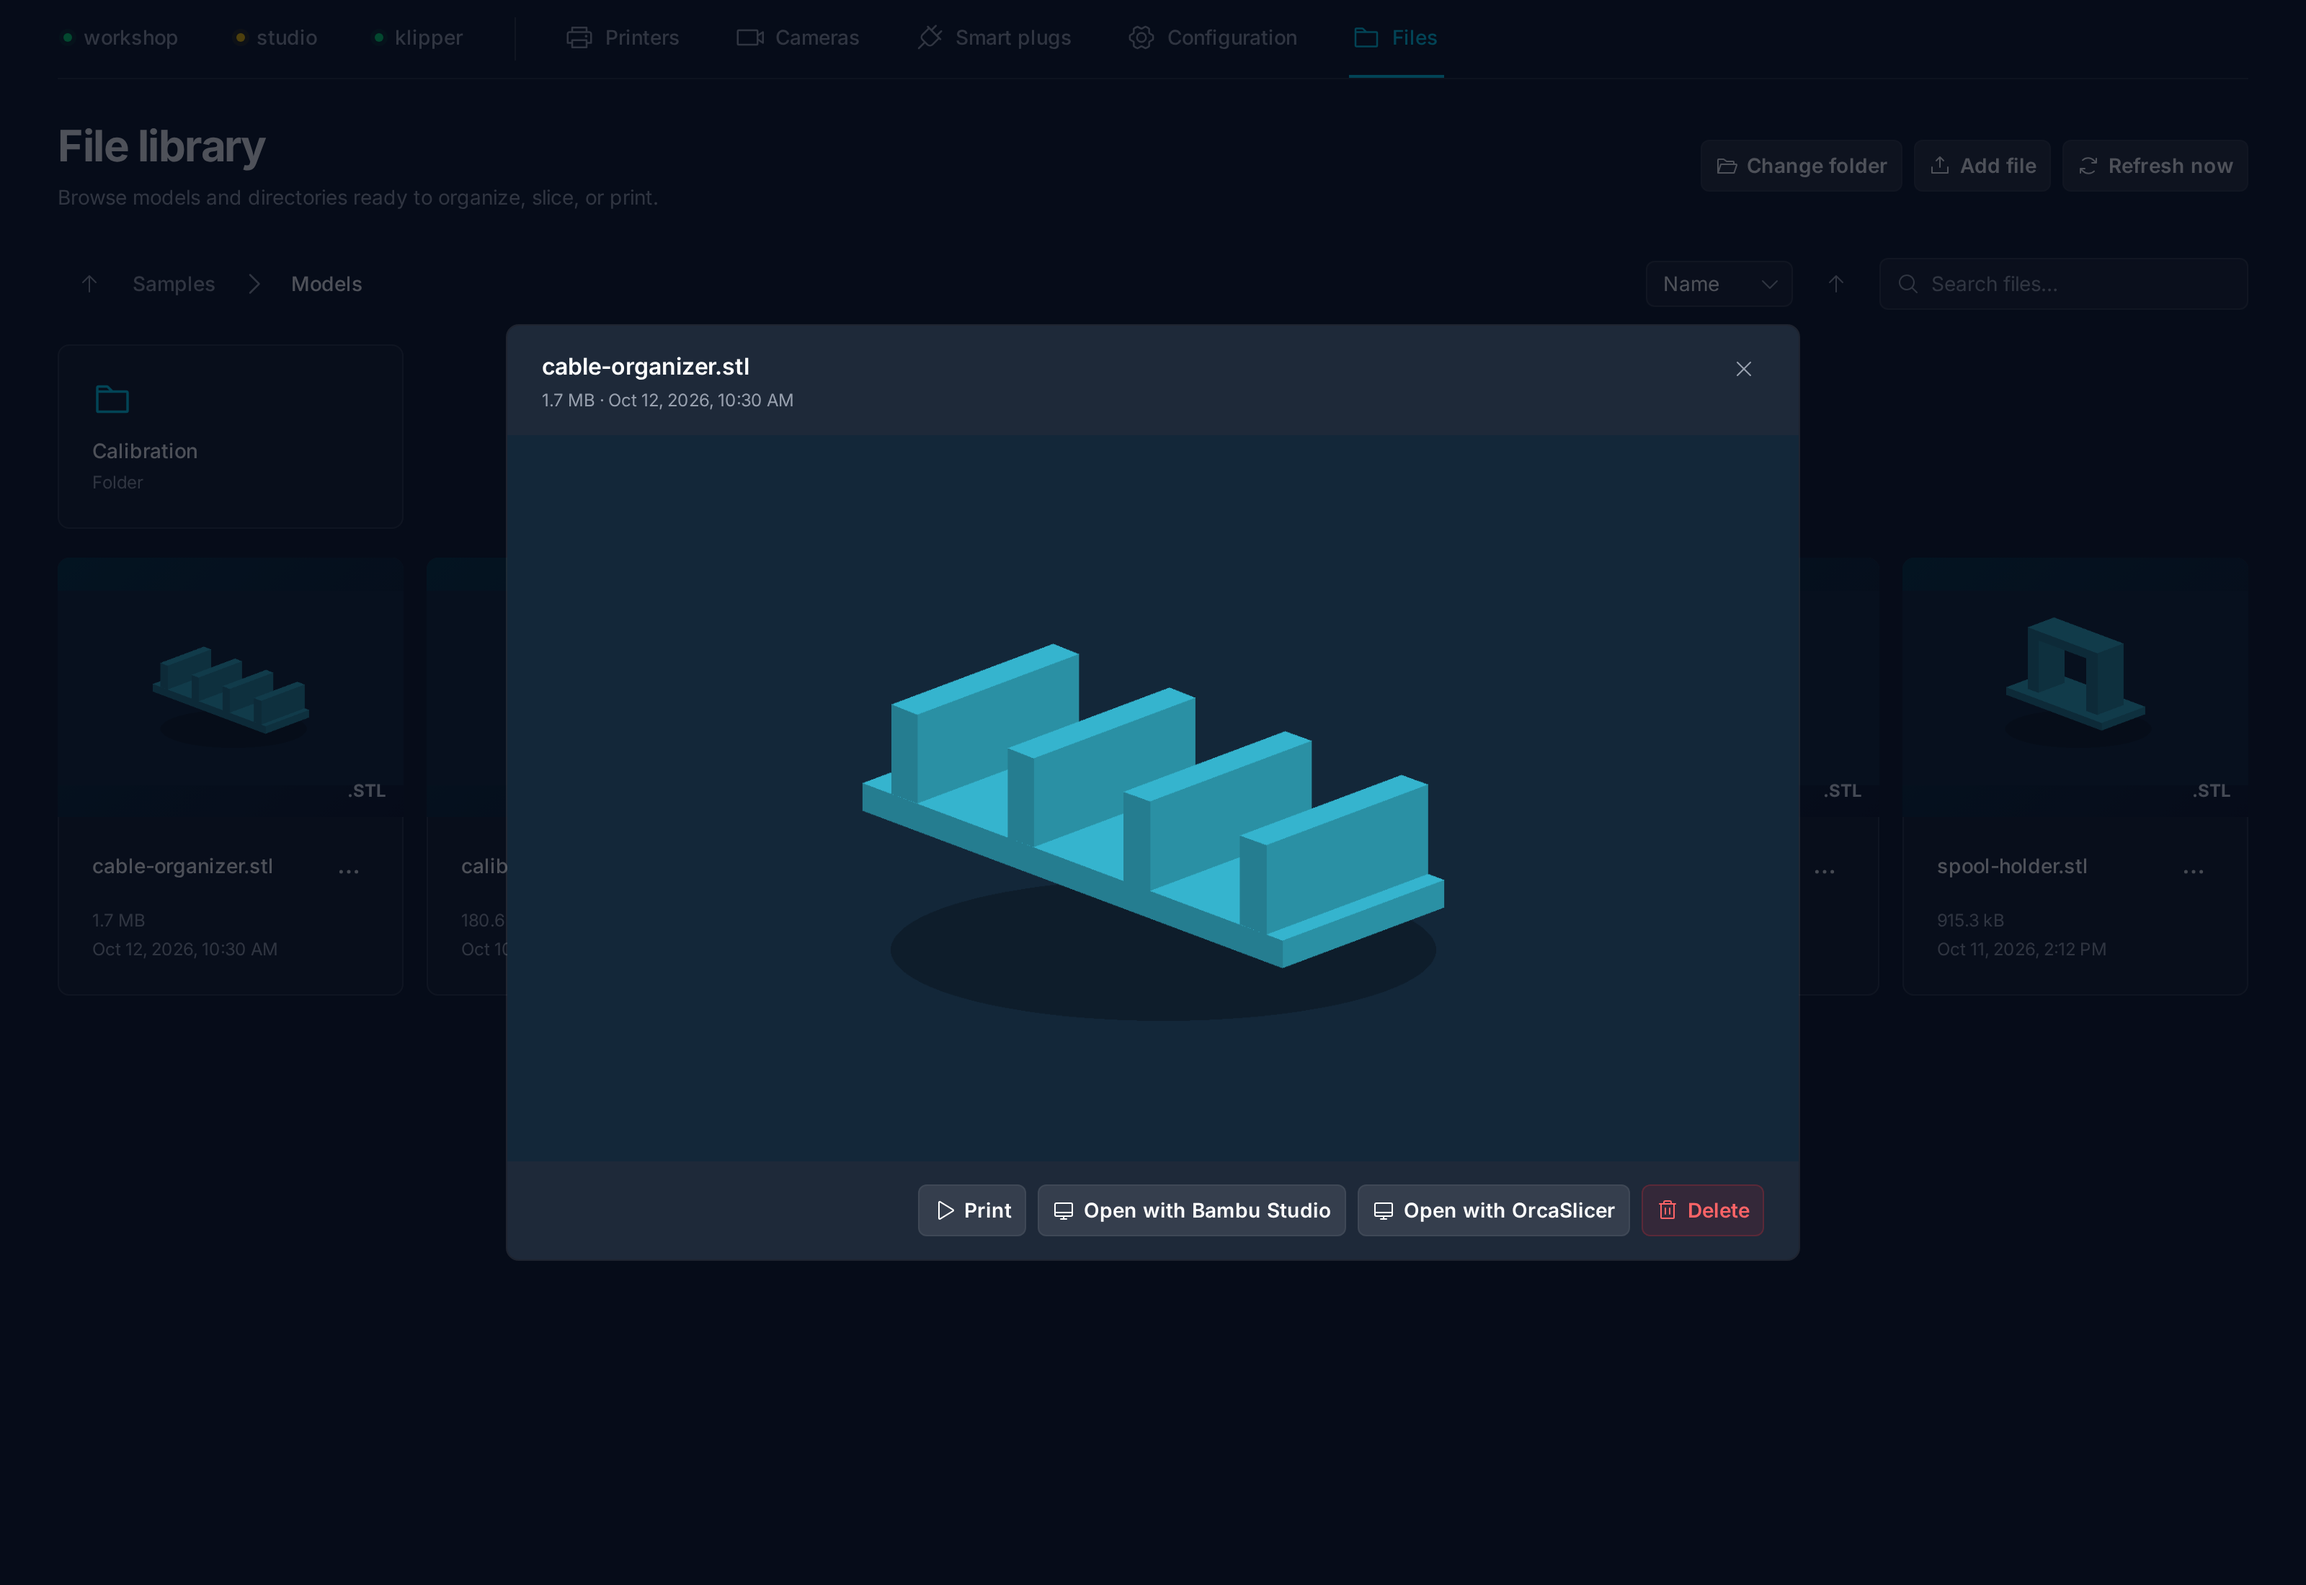
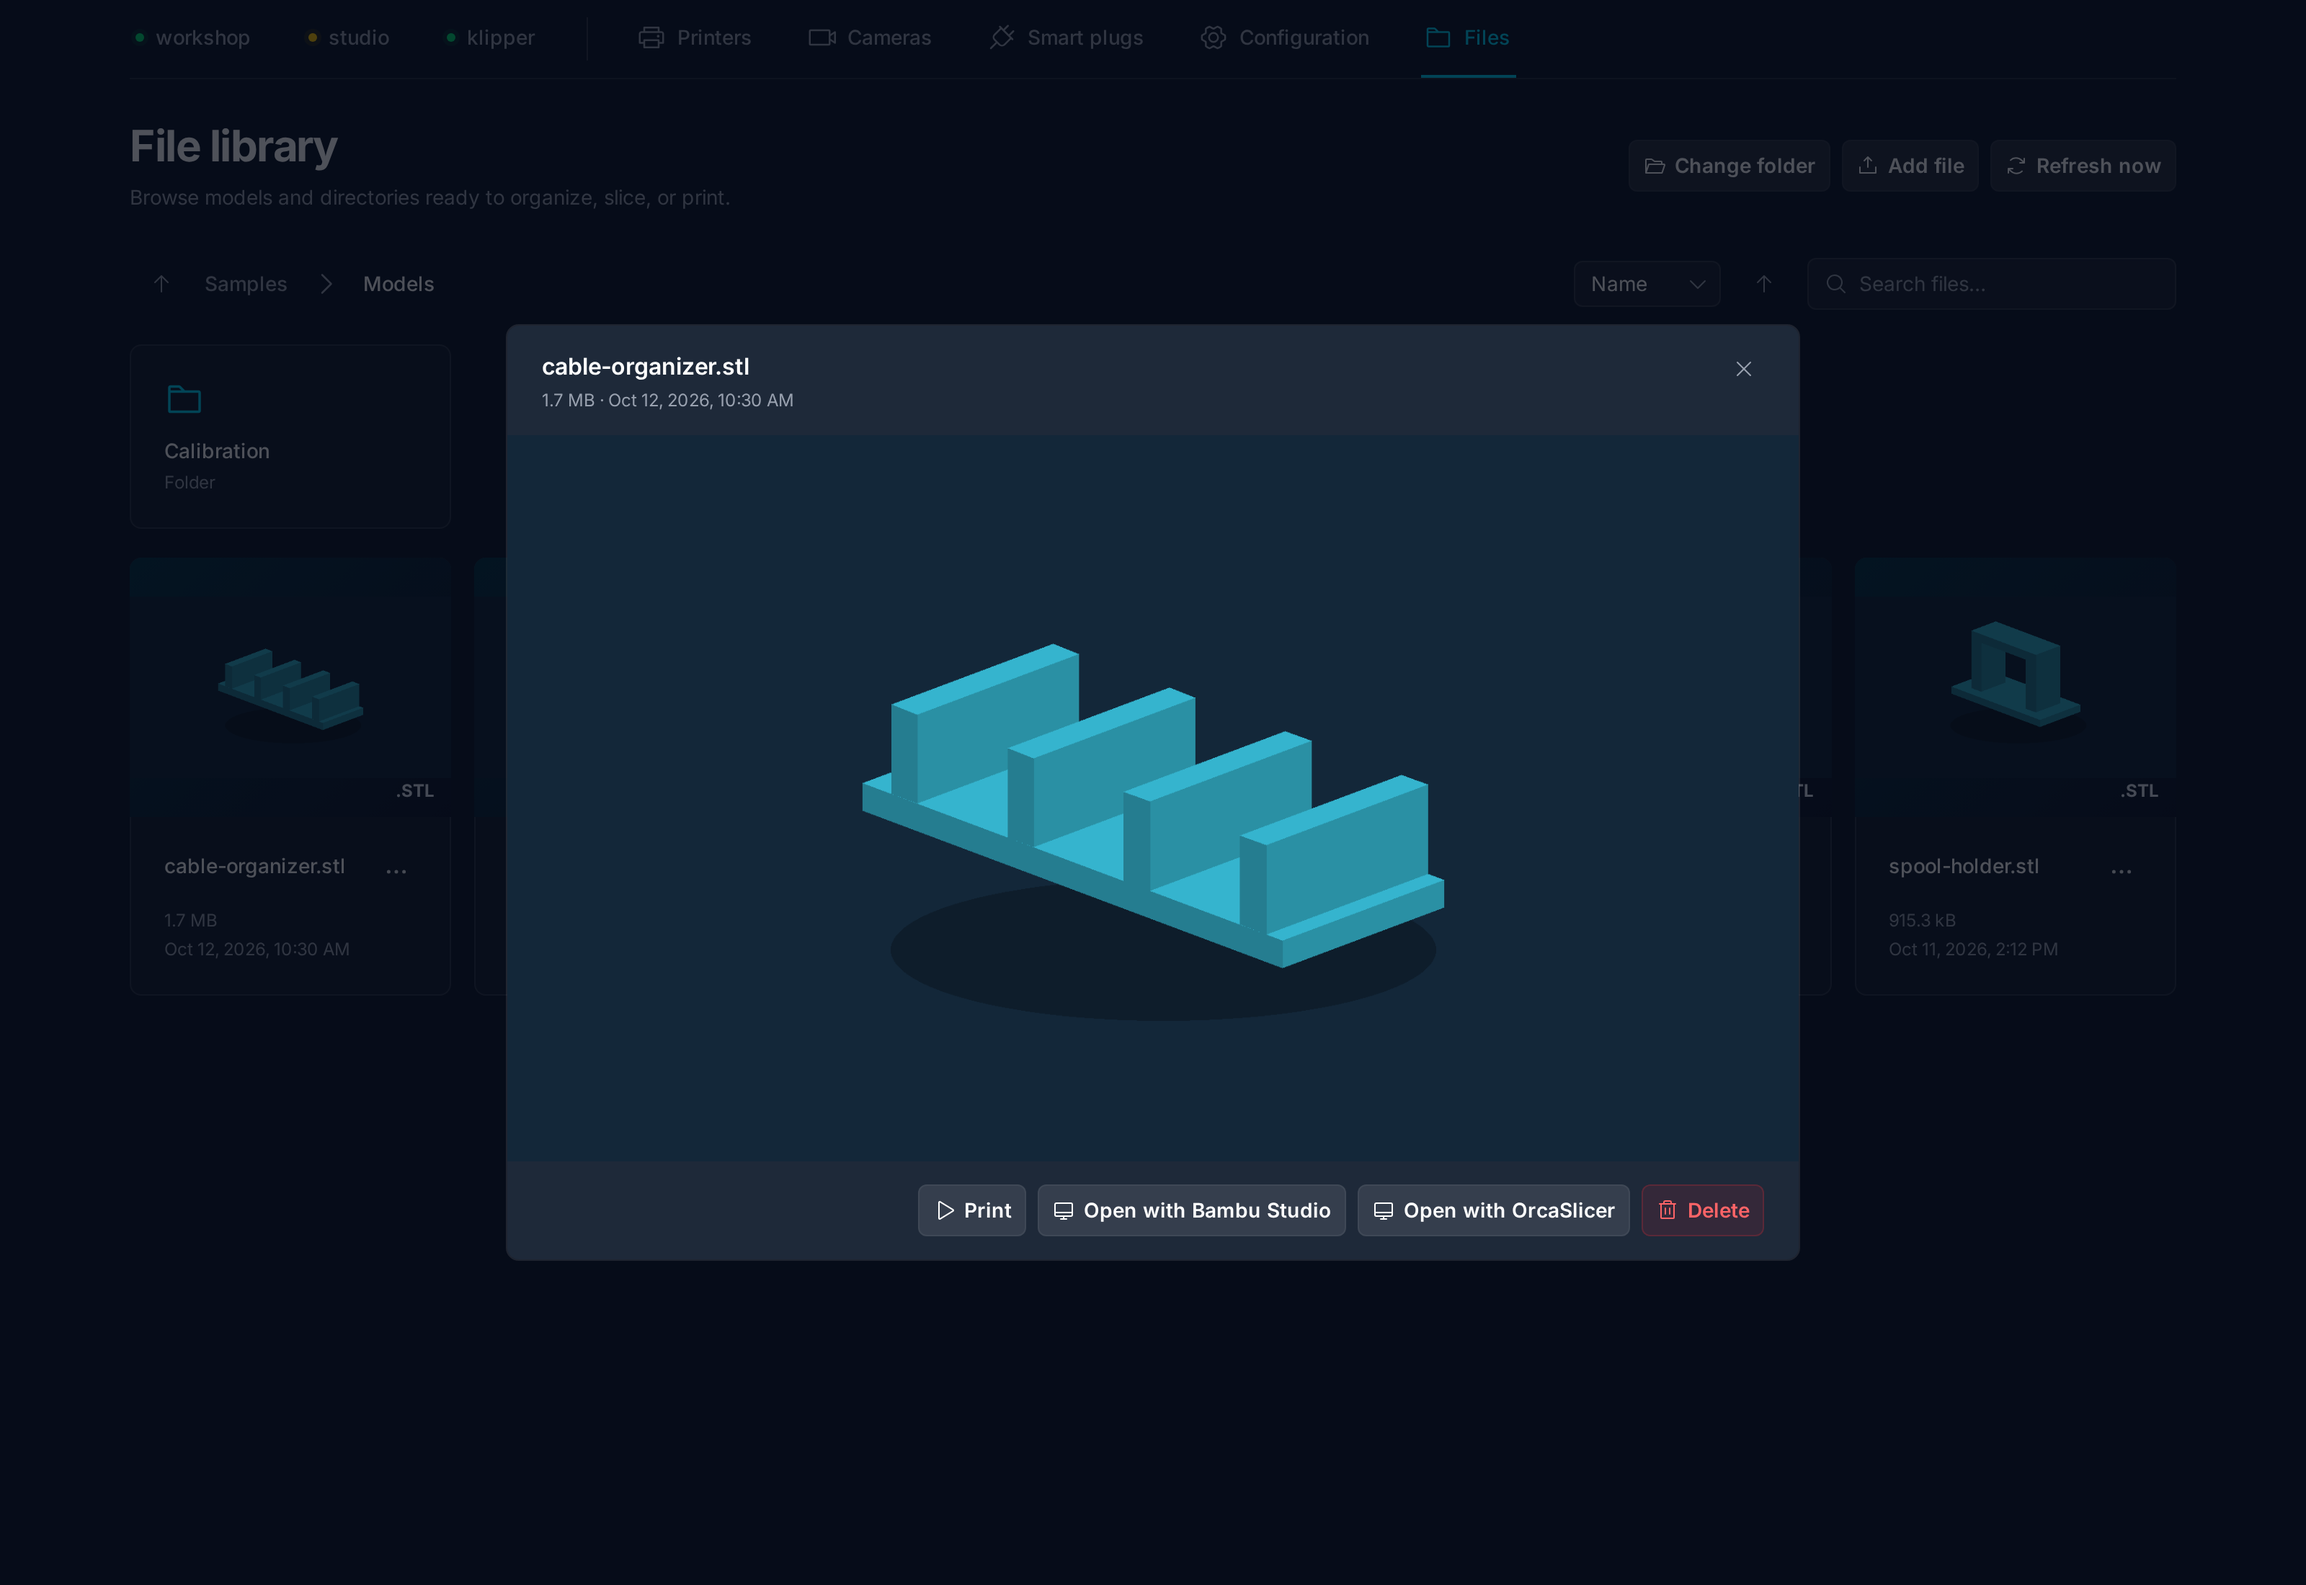
Cap all views at 1500px for consistent width

diff --git a/ui/src/App.vue b/ui/src/App.vue
@@ -155,8 +155,6 @@ const slicers = ref<SlicerSetting[]>(defaultSlicers)
 const publicFirmwareCatalogue = ref(false)
 const activePrinter = computed(() => printers.value.find((printer) => printer.name === activePrinterId.value) ?? printers.value[0])
 
-// Dense forms and lists read badly stretched; media-heavy views use the width.
-const capped = computed(() => activeView.value === 'printers' || activeView.value === 'settings')
 const compactNavValue = computed({
   get: () => {
     if (activeView.value !== 'control') return `view:${activeView.value}`
@@ -546,7 +544,7 @@ function requestPrint(file: FileEntry, printer?: string) {
       <!-- Scrolling one axis clips the other, which would cut off the printer
            menu. Only the compact layout below `lg` needs to scroll, and it
            uses a native select that the clip cannot reach. -->
-      <div :class="capped && 'max-w-[1500px]'" class="mx-auto overflow-x-auto px-4 sm:px-8 lg:overflow-x-visible lg:px-10">
+      <div class="mx-auto max-w-[1500px] overflow-x-auto px-4 sm:px-8 lg:overflow-x-visible lg:px-10">
         <nav class="flex min-w-0 items-stretch border-b border-gray-200 sm:min-w-max dark:border-white/10" :aria-label="t('nav.ariaLabel')">
           <div class="grid w-full grid-cols-1 py-2 lg:hidden">
             <select
@@ -663,7 +661,7 @@ function requestPrint(file: FileEntry, printer?: string) {
       </div>
     </header>
 
-    <main id="main-content" tabindex="-1" :class="capped && 'max-w-[1500px]'" class="mx-auto py-7 outline-none sm:px-8 lg:px-10">
+    <main id="main-content" tabindex="-1" class="mx-auto max-w-[1500px] py-7 outline-none sm:px-8 lg:px-10">
       <h1 class="sr-only">{{ t('app.title') }}</h1>
       <!-- Notification -->
       <div aria-live="polite" class="pointer-events-none fixed inset-0 z-50 flex items-end px-4 py-6 sm:p-6">
